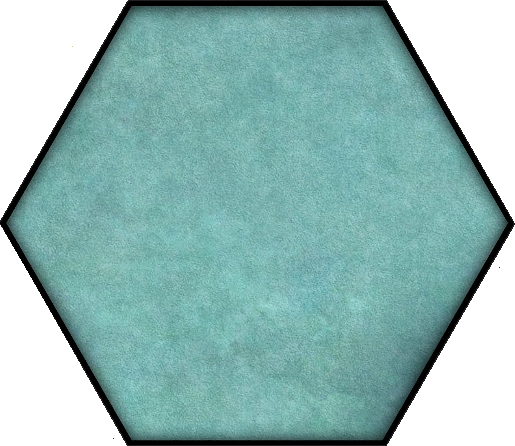
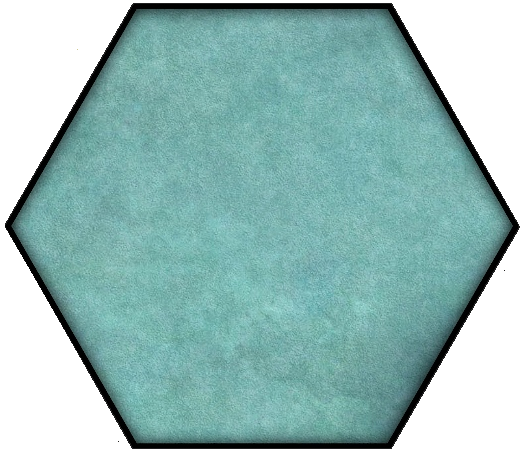
created a json to set the map data

Changed region(s): [[0.0, 0.0, 1.0, 1.0], [0.0932, 0.4664, 0.1243, 0.5247]]

diff --git a/hexGridLayout.py b/hexGridLayout.py
@@ -67,32 +67,39 @@ class HexGridLayout(FloatLayout):
 
         self.arrow = Arrow(self.versus)
 
-    def load_hex_data(self, filename="hex_data.json"):
+    def load_map_data(self, filename="map_data.json"):
         try:
             with open(filename, "r") as file:
                 data = json.load(file)
             return data
         except Exception as e:
-            print(f"Error loading hex data: {e}")
+            print(f"Error loading map data: {e}")
             return {}
 
     def create_hex(self, center_x, center_y, hex_data, *args):
-        hex_data = self.load_hex_data()
+        hex_data = self.load_map_data()
+        hex_attrs = hex_data.get("default_hex", {})
+        if hex_attrs:
+            bg_r, bg_g, bg_b, bg_a = hex_attrs.get("background_color", [0, 0, 125, 1])
+            stroke_r, stroke_g, stroke_b, stroke_a = hex_attrs.get(
+                "stroke_color", [0, 0, 0, 1]
+            )
+            stroke_thickness = hex_attrs.get("stroke_thickness", 2)
         for x in range(self.xRange):
             for y in range(self.yRange):
                 hex_id = f"hex_{x}_{self.yRange - y -1}"
                 hex_attrs = hex_data.get(hex_id, {})
                 hexagon = Hexagon(
                     self.hex_size,
-                    0,
-                    0,
-                    125,
-                    1,
-                    0,
-                    0,
-                    1,
-                    1,
-                    2,
+                    bg_r,
+                    bg_g,
+                    bg_b,
+                    bg_a,
+                    stroke_r,
+                    stroke_g,
+                    stroke_b,
+                    stroke_a,
+                    stroke_thickness,
                     x,
                     y,
                     self.xRange,
@@ -101,7 +108,7 @@ class HexGridLayout(FloatLayout):
                     terrain=hex_attrs.get("terrain", ""),
                     color=hex_attrs.get("color", None),
                     content=hex_attrs.get("content", ""),
-                    showLabel=eval(hex_attrs.get("label", "True"))
+                    showLabel=eval(hex_attrs.get("label", "True")),
                 )
                 if self.versus == HexGridType.HORIZONTAL:
                     hexagon.pos = (

diff --git a/main.py b/main.py
@@ -1,3 +1,5 @@
+import json
+
 from kivy.app import App
 from kivy.config import Config
 from kivy.core.window import Window
@@ -14,10 +16,23 @@ from kivy.app import App
 
 class HexApp(App):
     def build(self):
-        self.hex_size = 100
+        map_data = self.load_map_data()
+        map_attrs = map_data.get("map", {})
+        if map_attrs:
+            self.hex_size = map_attrs.get("hex_size", 75)
+            self.xRange = map_attrs.get("xRange", 10)
+            self.yRange = map_attrs.get("yRange", 10)
+            orientation = map_attrs.get("orientation", "VERTICAL")
+            if orientation == "VERTICAL":
+                self.versus = HexGridType.VERTICAL
+            else:
+                self.versus = HexGridType.HORIZONTAL
+        else:
+            self.hex_size = 100
+            self.xRange = 20
+            self.yRange = 10
+
         self.hex_height = self.hex_size * 0.866
-        self.xRange = 20
-        self.yRange = 10
 
         Window.maximize()
         self.container = RelativeLayout()
@@ -27,12 +42,21 @@ class HexApp(App):
             hex_size=self.hex_size,
             xRange=self.xRange,
             yRange=self.yRange,
-            versus=HexGridType.VERTICAL,
+            versus=self.versus,
         )
 
         self.grid.pos_hint = {"center_x": 0.5, "center_y": 0.5}
         self.container.add_widget(self.grid)
         return self.container
+
+    def load_map_data(self, filename="map_data.json"):
+        try:
+            with open(filename, "r") as file:
+                data = json.load(file)
+            return data
+        except Exception as e:
+            print(f"Error loading map data: {e}")
+            return {}
 
     def hexClicked_handler(self, instance):
         move = self.grid.calculateMove(instance)
